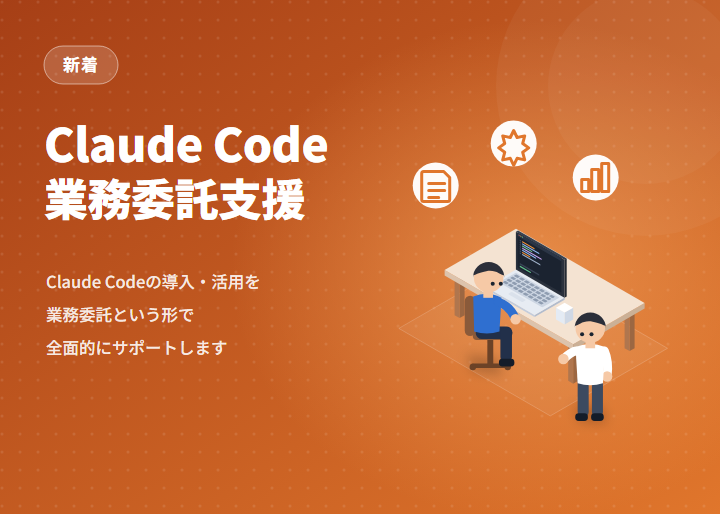
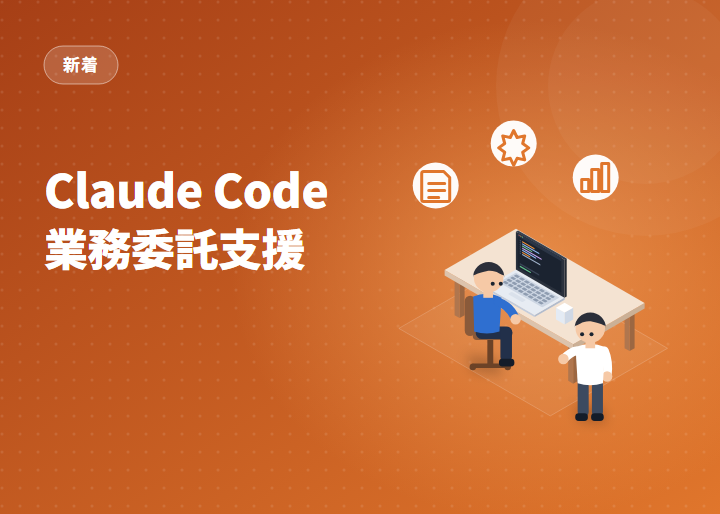
新着サムネイルから説明文を外し、見出しだけの構成に変更
各サムネイルに入れていた3行の説明文が、カード表示（約350px幅＝
約48%縮小）では16.5px→8px相当となり読めない状態だった。
カード下に同じ内容のHTMLタイトルが出るため情報としても重複しており、
説明文を削除して見出しとイラストを大きく見せる構成に変更した。

- _illust/build.html の card() から説明文の描画を削除し、見出しを
  縦中央寄りに配置（y=208/266）。アイソメ6枚を再生成
- news-unia.png も同じ体裁で再生成（Pillowで合成）
- 実際のカード表示でレンダリング確認済み

Changed region(s): [[0.0611, 0.249, 0.4583, 0.5603], [0.0611, 0.5914, 0.3361, 0.716]]

diff --git a/_illust/build.html b/_illust/build.html
@@ -45,9 +45,10 @@ function card(cfg) {
   <g font-family="Noto Sans JP">
     <rect x="44" y="46" width="${badge.length * 20 + 34}" height="38" rx="19" fill="#fff" fill-opacity="0.16" stroke="#fff" stroke-opacity="0.5"/>
     <text x="${44 + (badge.length * 20 + 34) / 2}" y="71" font-size="17" font-weight="700" fill="#fff" text-anchor="middle" letter-spacing="1">${badge}</text>
-    <text x="44" y="${t2 ? 162 : 186}" font-size="${cfg.size || 44}" font-weight="900" fill="#fff" letter-spacing="-0.5">${t1}</text>
-    ${t2 ? `<text x="44" y="216" font-size="${cfg.size2 || 40}" font-weight="900" fill="#fff" letter-spacing="-0.5">${t2}</text>` : ''}
-    ${desc.map((l, i) => `<text x="46" y="${288 + i * 33}" font-size="16.5" font-weight="500" fill="#fff" fill-opacity="0.88">${l}</text>`).join('\n    ')}
+    <!-- 説明文は入れない。カード下のHTMLタイトルと重複するうえ、
+         カード表示（約350px幅＝約48%縮小）では小さすぎて読めないため -->
+    <text x="44" y="${t2 ? 208 : 244}" font-size="${cfg.size || 44}" font-weight="900" fill="#fff" letter-spacing="-0.5">${t1}</text>
+    ${t2 ? `<text x="44" y="266" font-size="${cfg.size2 || 40}" font-weight="900" fill="#fff" letter-spacing="-0.5">${t2}</text>` : ''}
   </g>
 </svg>`;
 }
